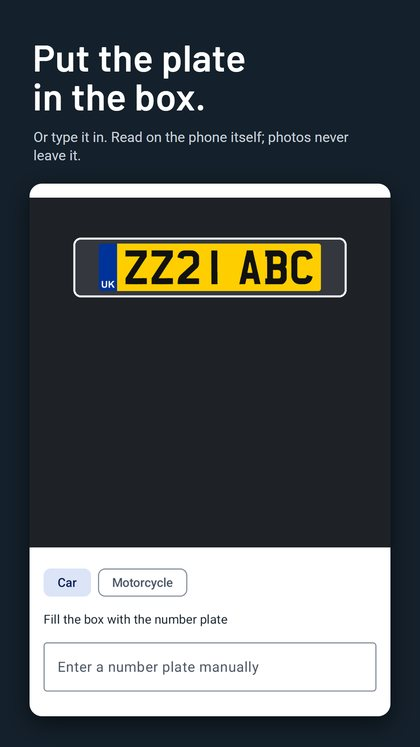
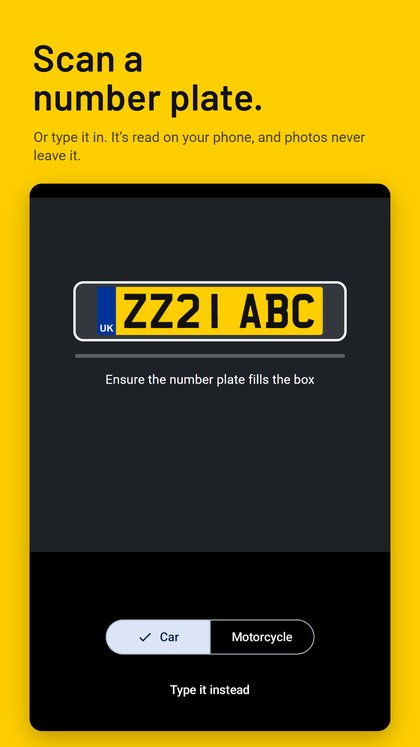
Roadworthy app page for 1.0.0: reminders, the new scanning wording, new screenshots
Roadworthy 1.0.0 is live on Google Play. The app page follows it, as
version B on the design canvas, signed off by the owner on 15 October 2026:

- every screenshot retaken from the redesigned app (the store's eight,
  at 420 wide); spec.jpg dropped, company car tax shown in its place
- the lede and description open with the store listing's new first line,
  and the Check section follows the app's new hint
- a row of its own for reminders, in the store listing's words

diff --git a/roadworthy/index.html b/roadworthy/index.html
@@ -4,7 +4,7 @@
 <meta charset="utf-8">
 <meta name="viewport" content="width=device-width, initial-scale=1">
 <title>Roadworthy: UK vehicle tax and MOT checks</title>
-<meta name="description" content="Line a number plate up in the box. Check UK tax, MOT and full MOT test history against DVLA and DVSA, and report a vehicle that isn't legal, without retyping anything.">
+<meta name="description" content="Scan a number plate or type it in. Check UK tax, MOT and full MOT test history against DVLA and DVSA, and report a vehicle that isn't legal, without retyping anything.">
 <link rel="canonical" href="https://happypathapps.co.uk/roadworthy/">
 <meta property="og:title" content="Roadworthy">
 <meta property="og:description" content="UK vehicle tax and MOT checks from a number plate. Free, on Google Play.">
@@ -57,7 +57,7 @@
     <div class="text">
       <img class="icon" src="icon.png" width="72" height="72" alt="">
       <h1>Roadworthy</h1>
-      <p class="lede">Line a number plate up in the box. Find out whether the vehicle is taxed and
+      <p class="lede">Scan a number plate or type it in. Find out whether the vehicle is taxed and
       has an MOT, and if it isn't, report it without retyping anything.</p>
       <div class="actions">
         <a class="btn" href="https://play.google.com/store/apps/details?id=uk.co.roadworthy">Get it on Google Play</a>
@@ -73,13 +73,13 @@
   <section class="row">
     <div class="text">
       <p class="label">Check</p>
-      <h2>Put the plate in the box</h2>
-      <p>Fill the box with the plate, or type it. Only what is inside the box is read, so a shop
-      sign or the car in the next bay is not mistaken for the one you are checking.</p>
+      <h2>Scan the plate, or type it</h2>
+      <p>Ensure the plate fills the box, or type it in. Only what is inside the box is read, so a
+      shop sign or the car in the next bay is not mistaken for the one you are checking.</p>
       <p>Private and dateless plates work, and motorcycles have their own box shape. The camera
       is optional: type the plate instead and the whole app still works.</p>
     </div>
-    <div class="phone"><img src="shots/scan.jpg" width="420" height="747" alt="The camera with a plate lined up in the box" loading="lazy"></div>
+    <div class="phone"><img src="shots/scan.jpg" width="420" height="747" alt="The camera, with a plate filling the box, and a choice of car or motorcycle" loading="lazy"></div>
   </section>
 
   <section class="row flip">
@@ -107,7 +107,7 @@
       <p>And for a car an employer provides, the company car tax band. You supply the P11D value,
       because it depends on the options fitted to that exact car and no source publishes it.</p>
     </div>
-    <div class="phone"><img src="shots/spec.jpg" width="420" height="747" alt="A car's details with its road tax for a year" loading="lazy"></div>
+    <div class="phone"><img src="shots/company.jpg" width="420" height="747" alt="Company car tax worked out from a P11D value and a tax rate" loading="lazy"></div>
   </section>
 
   <section class="row flip">
@@ -117,10 +117,21 @@
       <p>Keep your own vehicles with expiry warnings, and check their insurance on MIB's own
       service.</p>
     </div>
-    <div class="phone"><img src="shots/saved.jpg" width="420" height="747" alt="Two saved vehicles with their tax and MOT dates" loading="lazy"></div>
+    <div class="phone"><img src="shots/saved.jpg" width="420" height="747" alt="Two saved vehicles, one taxed and with an MOT, one untaxed with its MOT expired" loading="lazy"></div>
   </section>
 
   <section class="row">
+    <div class="text">
+      <p class="label">Remind</p>
+      <h2>Reminded before it runs out</h2>
+      <p>Mark a car as yours to be reminded before its MOT and tax run out. Reminders are worked
+      out on your phone, each says when its date was checked, and you can turn them off for
+      one car or all.</p>
+    </div>
+    <div class="phone"><img src="shots/reminders.jpg" width="420" height="747" alt="A reminder that a car's MOT has expired, above that car's tax and MOT and its reminders switch" loading="lazy"></div>
+  </section>
+
+  <section class="row flip">
     <div class="text">
       <p class="label">Report</p>
       <h2>Report it, if you choose to</h2>
